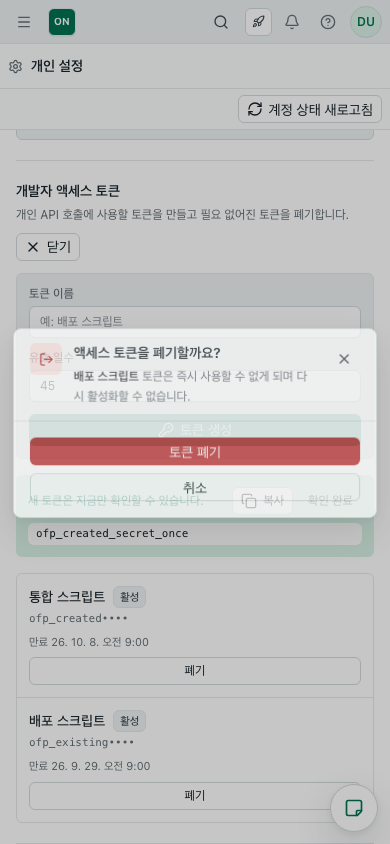
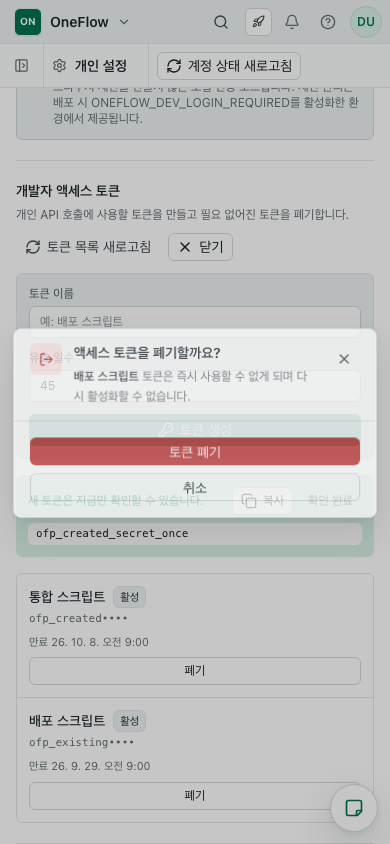
fix(settings): guard stale access token writes

diff --git a/apps/web/src/features/settings/PersonalSettingsPage.tsx b/apps/web/src/features/settings/PersonalSettingsPage.tsx
@@ -95,6 +95,8 @@ function ConfirmActionDialog({
   error,
   actionLabel,
   pendingLabel,
+  actionDisabled = false,
+  actionDisabledMessage,
   onConfirm,
 }: {
   open: boolean
@@ -106,6 +108,8 @@ function ConfirmActionDialog({
   error: string | null
   actionLabel: string
   pendingLabel: string
+  actionDisabled?: boolean
+  actionDisabledMessage?: string
   onConfirm: () => void
 }) {
   return (
@@ -143,13 +147,27 @@ function ConfirmActionDialog({
               {error}
             </p>
           ) : null}
+          {actionDisabled && actionDisabledMessage ? (
+            <p
+              role="alert"
+              className="mx-4 mt-4 border border-of-warning/35 bg-of-warning/10 px-3 py-2 text-xs leading-5 text-of-text"
+            >
+              {actionDisabledMessage}
+            </p>
+          ) : null}
           <footer className="flex flex-col-reverse gap-2 px-4 py-4 sm:flex-row sm:justify-end">
             <Dialog.Close asChild>
               <Button type="button" size="sm" variant="outline" disabled={pending}>
                 취소
               </Button>
             </Dialog.Close>
-            <Button type="button" size="sm" variant="danger" disabled={pending} onClick={onConfirm}>
+            <Button
+              type="button"
+              size="sm"
+              variant="danger"
+              disabled={pending || actionDisabled}
+              onClick={onConfirm}
+            >
               {pending ? pendingLabel : error ? `${actionLabel} 다시 시도` : actionLabel}
             </Button>
           </footer>
@@ -453,6 +471,9 @@ function AccessTokensPanel() {
   const [revokeTarget, setRevokeTarget] = useState<PersonalAccessToken | null>(null)
   const nameRef = useRef<HTMLInputElement>(null)
   const revokeButtonRef = useRef<HTMLButtonElement>(null)
+  const hasTokenData = tokens.data !== undefined
+  const stale = tokens.isError && hasTokenData
+  const writeBlocked = tokens.isError || tokens.isFetching
 
   useUnsavedLocationPrompt(
     created !== null || (creating && (name.trim().length > 0 || days !== 90)),
@@ -461,11 +482,13 @@ function AccessTokensPanel() {
       : '작성 중인 액세스 토큰을 버리고 이동할까요?',
   )
   const openCreator = () => {
+    if (writeBlocked) return
     createToken.reset()
     setCreating(true)
     window.setTimeout(() => nameRef.current?.focus(), 0)
   }
   const create = (body: { name: string; expires_in_days: number }) => {
+    if (writeBlocked) return
     createToken.mutate(body, {
       onSuccess: (result) => {
         setCreated(result)
@@ -475,7 +498,7 @@ function AccessTokensPanel() {
   }
 
   const revoke = async () => {
-    if (!revokeTarget) return
+    if (!revokeTarget || writeBlocked) return
     try {
       await revokeToken.mutateAsync(revokeTarget.id)
       setRevokeTarget(null)
@@ -492,28 +515,45 @@ function AccessTokensPanel() {
         framed={false}
         className="border-b border-of-border-subtle p-0 pb-5 sm:p-0 sm:pb-6"
         actions={
-        <Button
-          type="button"
-          size="sm"
-          variant={creating ? 'outline' : 'default'}
-          aria-expanded={creating}
-          aria-controls="access-token-creator"
-          onClick={() => {
-            if (creating) {
-              createToken.reset()
-              setCreating(false)
-            } else {
-              openCreator()
-            }
-          }}
-        >
-          {creating ? (
-            <X size={14} aria-hidden="true" />
-          ) : (
-            <KeyRound size={14} aria-hidden="true" />
-          )}
-          {creating ? '닫기' : '액세스 토큰 추가'}
-        </Button>
+          <div className="flex min-w-0 flex-wrap items-center gap-2">
+            <Button
+              type="button"
+              size="sm"
+              variant="ghost"
+              disabled={tokens.isFetching}
+              onClick={() => void tokens.refetch()}
+            >
+              <RefreshCw
+                size={14}
+                aria-hidden="true"
+                className={cn(tokens.isFetching && 'animate-spin')}
+              />
+              토큰 목록 새로고침
+            </Button>
+            <Button
+              type="button"
+              size="sm"
+              variant={creating ? 'outline' : 'default'}
+              aria-expanded={creating}
+              aria-controls="access-token-creator"
+              disabled={writeBlocked && !creating}
+              onClick={() => {
+                if (creating) {
+                  createToken.reset()
+                  setCreating(false)
+                } else {
+                  openCreator()
+                }
+              }}
+            >
+              {creating ? (
+                <X size={14} aria-hidden="true" />
+              ) : (
+                <KeyRound size={14} aria-hidden="true" />
+              )}
+              {creating ? '닫기' : '액세스 토큰 추가'}
+            </Button>
+          </div>
         }
       >
       {creating ? (
@@ -550,7 +590,10 @@ function AccessTokensPanel() {
               }}
             />
           </label>
-          <Button type="submit" disabled={createToken.isPending || !name.trim()}>
+          <Button
+            type="submit"
+            disabled={writeBlocked || createToken.isPending || !name.trim()}
+          >
             <KeyRound size={14} aria-hidden="true" />
             {createToken.isPending ? '생성 중' : '토큰 생성'}
           </Button>
@@ -566,7 +609,7 @@ function AccessTokensPanel() {
           <Button
             size="sm"
             variant="outline"
-            disabled={!createToken.variables || createToken.isPending}
+            disabled={writeBlocked || !createToken.variables || createToken.isPending}
             onClick={() => {
               if (createToken.variables) create(createToken.variables)
             }}
@@ -602,15 +645,52 @@ function AccessTokensPanel() {
         </div>
       ) : null}
 
-      {tokens.isPending ? (
+      {stale ? (
+        <div
+          className="mb-4 flex min-w-0 flex-col gap-2 border border-of-warning/35 bg-of-warning/10 px-3 py-2.5 sm:flex-row sm:items-center sm:justify-between"
+          role="alert"
+        >
+          <div className="min-w-0">
+            <p className="text-xs font-medium text-of-text">
+              최신 액세스 토큰 목록을 불러오지 못했습니다.
+            </p>
+            <p className="mt-0.5 text-[11px] leading-5 text-of-muted">
+              마지막으로 확인한 토큰을 표시합니다. 목록을 복구할 때까지 생성과 폐기는
+              중단됩니다.
+            </p>
+          </div>
+          <Button
+            type="button"
+            size="sm"
+            variant="outline"
+            className="w-full shrink-0 sm:w-auto"
+            disabled={tokens.isFetching}
+            onClick={() => void tokens.refetch()}
+          >
+            <RefreshCw
+              size={13}
+              aria-hidden="true"
+              className={cn(tokens.isFetching && 'animate-spin')}
+            />
+            토큰 목록 다시 시도
+          </Button>
+        </div>
+      ) : null}
+
+      {tokens.isPending && !tokens.data ? (
         <div className="space-y-2" aria-label="액세스 토큰 목록을 불러오는 중">
           <div className="h-12 animate-pulse rounded-of bg-of-subtle" />
           <div className="h-12 animate-pulse rounded-of bg-of-subtle" />
         </div>
-      ) : tokens.isError ? (
+      ) : !tokens.data ? (
         <div className="flex flex-wrap items-center justify-between gap-2 text-xs" role="alert">
           <p className="text-of-danger">토큰 목록을 불러오지 못했습니다.</p>
-          <Button size="sm" variant="outline" onClick={() => void tokens.refetch()}>
+          <Button
+            size="sm"
+            variant="outline"
+            disabled={tokens.isFetching}
+            onClick={() => void tokens.refetch()}
+          >
             다시 시도
           </Button>
         </div>
@@ -623,7 +703,7 @@ function AccessTokensPanel() {
           <p className="mt-1 max-w-sm text-xs leading-5 text-of-muted">
             외부 도구나 자동화에서 OneFlow API를 호출할 때 사용할 토큰을 만드세요.
           </p>
-          <Button size="sm" className="mt-3" onClick={openCreator}>
+          <Button size="sm" className="mt-3" disabled={writeBlocked} onClick={openCreator}>
             액세스 토큰 추가
           </Button>
         </div>
@@ -671,9 +751,10 @@ function AccessTokensPanel() {
                         size="sm"
                         variant="outline"
                         className="w-full sm:justify-self-end"
-                        disabled={revokeToken.isPending}
+                        disabled={writeBlocked || revokeToken.isPending}
                         aria-label={`${token.name} 폐기`}
                         onClick={(event) => {
+                          if (writeBlocked) return
                           revokeButtonRef.current = event.currentTarget
                           revokeToken.reset()
                           setRevokeTarget(token)
@@ -709,6 +790,8 @@ function AccessTokensPanel() {
           </>
         }
         pending={revokeToken.isPending}
+        actionDisabled={writeBlocked}
+        actionDisabledMessage="최신 토큰 목록을 복구한 뒤 이 토큰을 폐기할 수 있습니다."
         error={revokeToken.isError ? '액세스 토큰을 폐기하지 못했습니다.' : null}
         actionLabel="토큰 폐기"
         pendingLabel="폐기 중…"

diff --git a/apps/web/e2e/smoke.spec.ts b/apps/web/e2e/smoke.spec.ts
@@ -11447,6 +11447,136 @@ test('개인 설정에서 액세스 토큰을 생성하고 폐기한다', async 
   await expect(tokenSection.getByText('폐기됨')).toBeVisible()
 })
 
+test('액세스 토큰 후속 목록 오류는 초안을 보존하고 stale 쓰기를 차단한다', async ({ page }) => {
+  await page.setViewportSize({ width: 1280, height: 760 })
+  await mockApi(page)
+  let refreshShouldFail = false
+  let getAttempts = 0
+  let postAttempts = 0
+  let deleteAttempts = 0
+  let tokens = [
+    {
+      id: 'tok-freshness',
+      name: '자동화 토큰',
+      token_prefix: 'ofp_fresh',
+      created_at: '2026-07-01T00:00:00Z',
+      expires_at: '2026-09-29T00:00:00Z',
+      revoked_at: null as string | null,
+      last_used_at: null as string | null,
+    },
+  ]
+  await page.route('**/api/v1/me/access-tokens**', async (route) => {
+    const request = route.request()
+    if (request.method() === 'GET') {
+      getAttempts += 1
+      if (refreshShouldFail) {
+        await route.fulfill({ status: 503, json: { detail: 'temporary token-list failure' } })
+        return
+      }
+      await route.fulfill({ json: { items: tokens, total: tokens.length } })
+      return
+    }
+    if (request.method() === 'POST') {
+      postAttempts += 1
+      const sent = request.postDataJSON() as { name: string; expires_in_days: number }
+      expect(sent).toEqual({ name: '보존할 토큰 초안', expires_in_days: 60 })
+      if (postAttempts === 1) {
+        await route.fulfill({ status: 503, json: { detail: 'temporary create failure' } })
+        return
+      }
+      const created = {
+        id: 'tok-recovered',
+        name: sent.name,
+        token_prefix: 'ofp_recover',
+        created_at: '2026-07-30T00:00:00Z',
+        expires_at: '2026-09-28T00:00:00Z',
+        revoked_at: null,
+        last_used_at: null,
+      }
+      tokens = [created, ...tokens]
+      await route.fulfill({
+        status: 201,
+        json: { item: created, token: 'ofp_recovered_secret_once' },
+      })
+      return
+    }
+    if (request.method() === 'DELETE') {
+      deleteAttempts += 1
+      const id = request.url().split('/').pop()
+      tokens = tokens.map((token) =>
+        token.id === id ? { ...token, revoked_at: '2026-07-30T01:00:00Z' } : token,
+      )
+      await route.fulfill({ status: 204, body: '' })
+      return
+    }
+    await route.fallback()
+  })
+
+  await page.goto('/settings?tab=security')
+  const tokenSection = page.getByRole('region', { name: '개발자 액세스 토큰' })
+  await expect(tokenSection.getByText('자동화 토큰')).toBeVisible()
+  await tokenSection.getByRole('button', { name: '액세스 토큰 추가' }).click()
+  const nameInput = tokenSection.getByLabel('토큰 이름')
+  await nameInput.fill('보존할 토큰 초안')
+  await tokenSection.getByLabel('유효 일수').fill('60')
+  await tokenSection.getByRole('button', { name: '토큰 생성' }).click()
+  const createRetry = tokenSection.getByRole('button', { name: '다시 시도', exact: true })
+  await expect(createRetry).toBeVisible()
+
+  refreshShouldFail = true
+  await page.getByRole('button', { name: '토큰 목록 새로고침' }).click()
+  await expect.poll(() => getAttempts).toBeGreaterThanOrEqual(3)
+  const staleAlert = tokenSection
+    .getByRole('alert')
+    .filter({ hasText: '최신 액세스 토큰 목록' })
+  await expect(staleAlert).toBeVisible()
+  await expect(tokenSection.getByText('자동화 토큰')).toBeVisible()
+  await expect(nameInput).toHaveValue('보존할 토큰 초안')
+  await expect(createRetry).toBeDisabled()
+  await expect(tokenSection.getByRole('button', { name: '토큰 생성' })).toBeDisabled()
+  await expect(tokenSection.getByRole('button', { name: '자동화 토큰 폐기' })).toBeDisabled()
+  expect(postAttempts).toBe(1)
+  expect(deleteAttempts).toBe(0)
+
+  await staleAlert.scrollIntoViewIfNeeded()
+  await page.screenshot({
+    path: '../../docs/screenshots/redevelopment/access-token-freshness-write-guard-ui-337/desktop-stale.png',
+    fullPage: true,
+  })
+  await page.setViewportSize({ width: 320, height: 740 })
+  await staleAlert.scrollIntoViewIfNeeded()
+  await expectNoHorizontalOverflow(page)
+  await page.screenshot({
+    path: '../../docs/screenshots/redevelopment/access-token-freshness-write-guard-ui-337/mobile-stale-320.png',
+    fullPage: true,
+  })
+
+  refreshShouldFail = false
+  await staleAlert.getByRole('button', { name: '토큰 목록 다시 시도' }).click()
+  await expect(staleAlert).toHaveCount(0)
+  await tokenSection.getByRole('button', { name: '자동화 토큰 폐기' }).click()
+  const revokeDialog = page.getByRole('dialog', { name: '액세스 토큰을 폐기할까요?' })
+  await expect(revokeDialog).toBeVisible()
+  await revokeDialog.getByRole('button', { name: '토큰 폐기' }).click()
+  await expect(revokeDialog).toHaveCount(0)
+  await expect(tokenSection.getByText('폐기됨')).toBeVisible()
+  expect(deleteAttempts).toBe(1)
+
+  await expect(createRetry).toBeEnabled()
+  await createRetry.click()
+  await expect(tokenSection.getByLabel('새 액세스 토큰')).toContainText(
+    'ofp_recovered_secret_once',
+  )
+  expect(postAttempts).toBe(2)
+  expect(getAttempts).toBeGreaterThanOrEqual(3)
+  await tokenSection.getByLabel('새 액세스 토큰').scrollIntoViewIfNeeded()
+  await expectNoHorizontalOverflow(page)
+  await page.screenshot({
+    path: '../../docs/screenshots/redevelopment/access-token-freshness-write-guard-ui-337/mobile-recovered-320.png',
+    fullPage: true,
+  })
+})
+
 test('개인 설정에서 활성 브라우저 세션을 확인하고 종료한다', async ({ page }) => {
   await page.setViewportSize({ width: 390, height: 844 })
   await mockApi(page)
